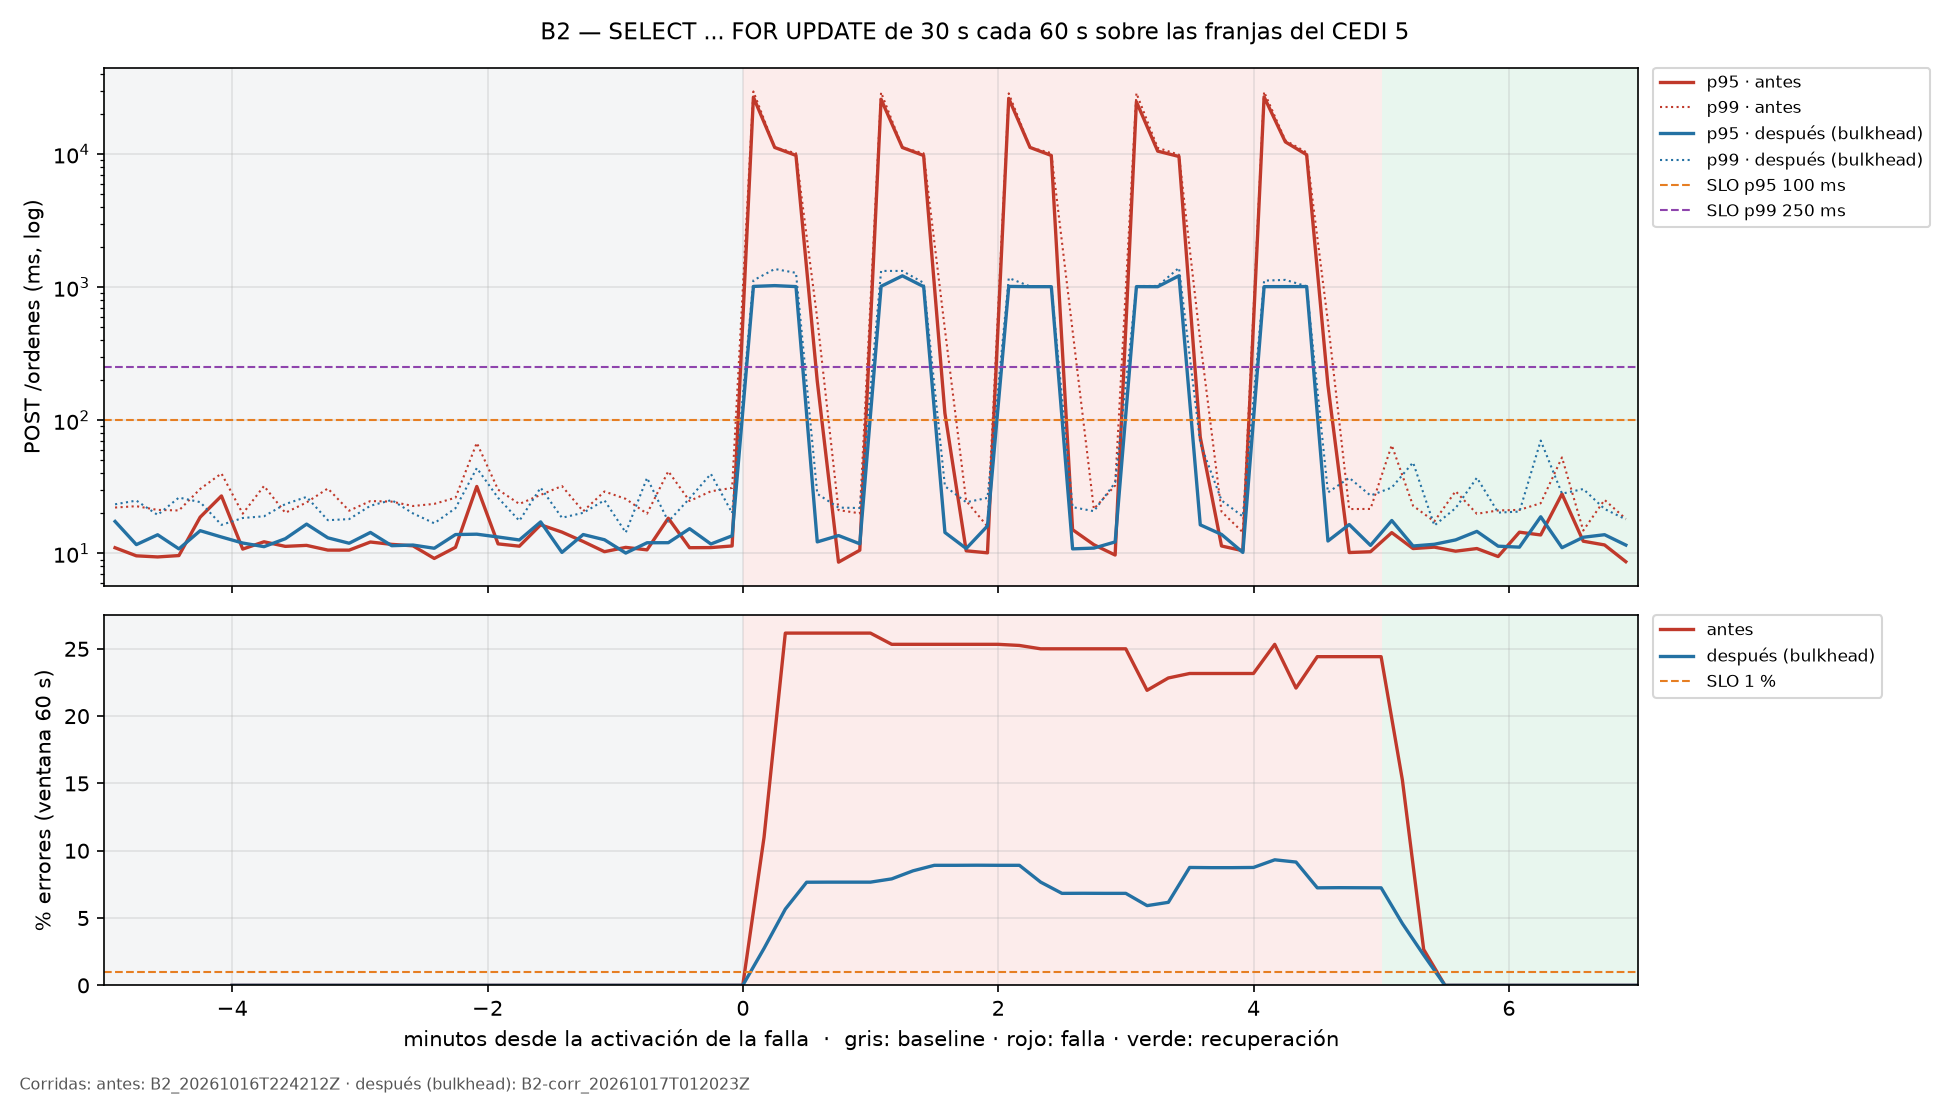
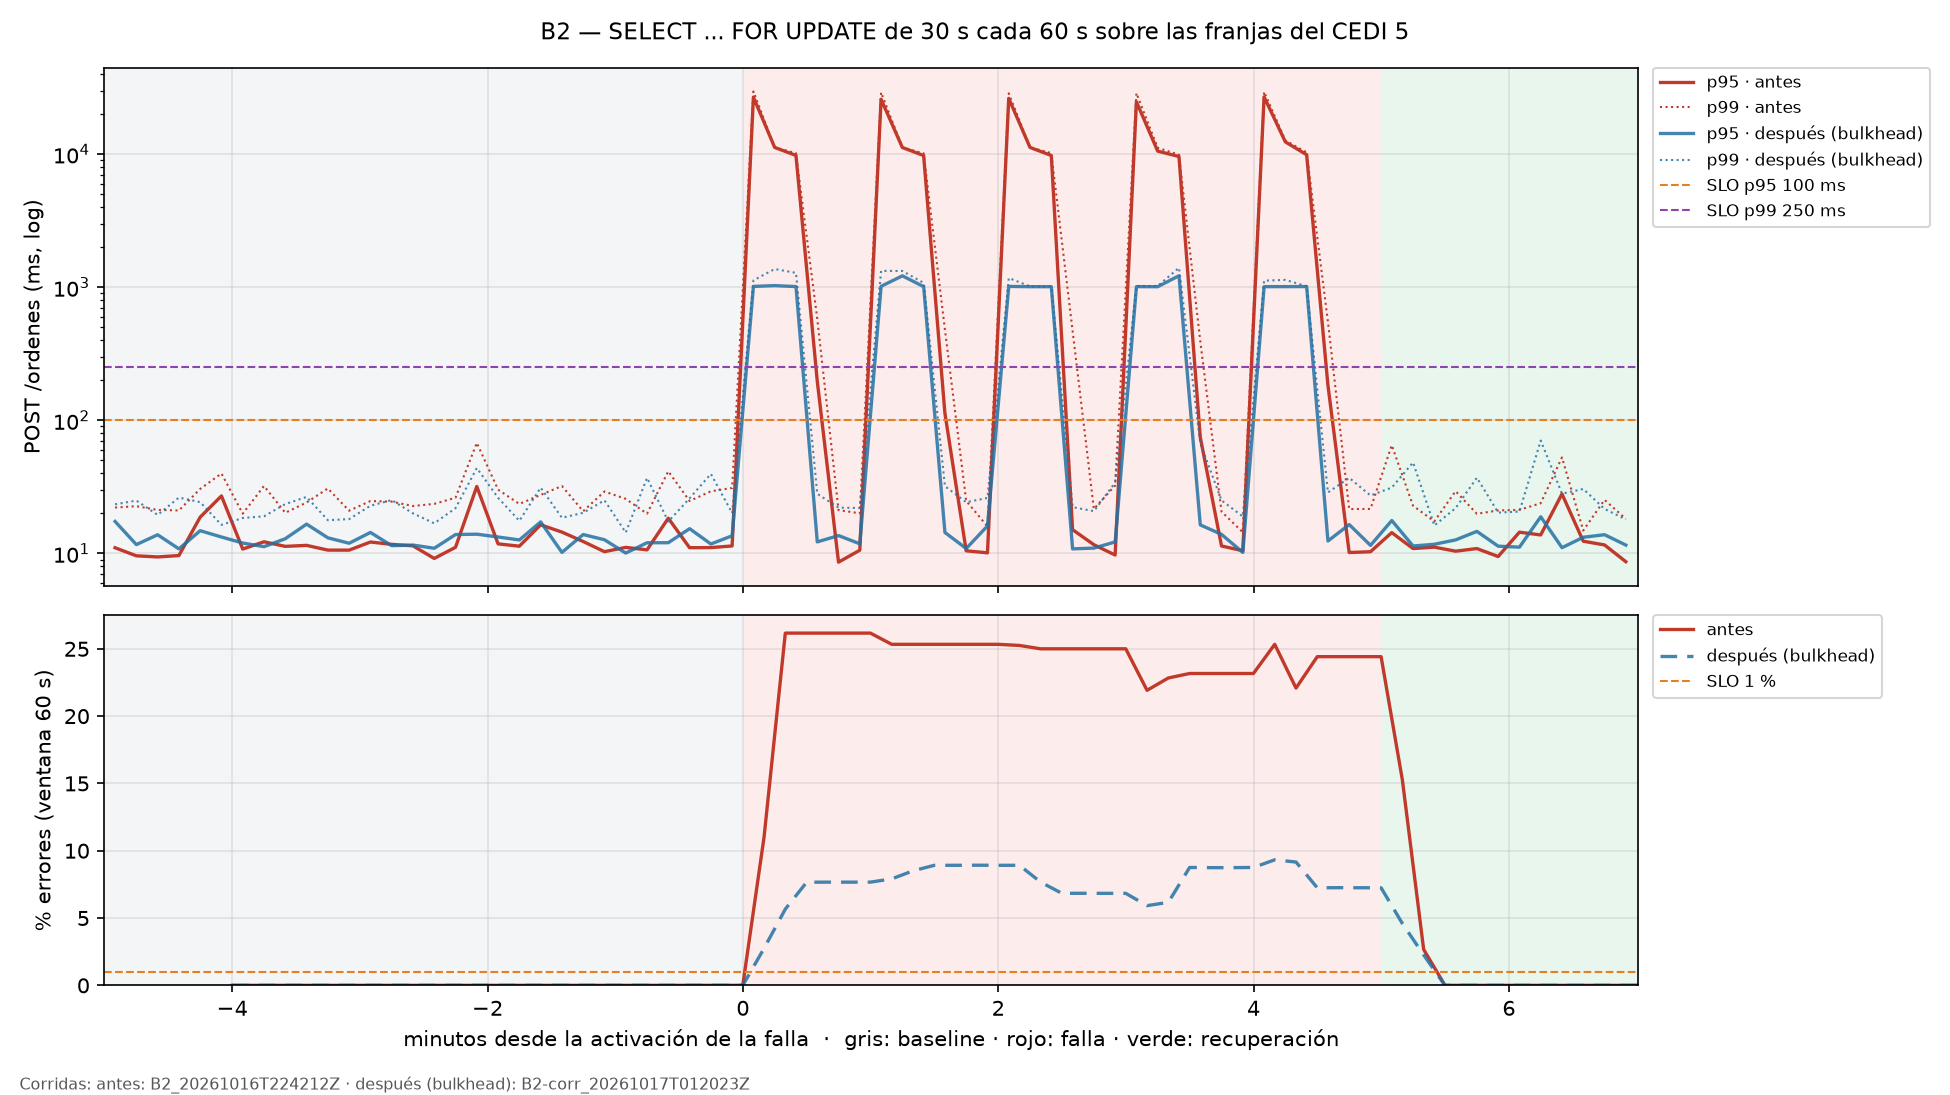
Entregable 3: figuras, panel de errores legible cuando la serie es 0
Si una serie no tiene errores en toda la corrida se dibuja más gruesa, el
eje y arranca un poco por debajo de 0 y el panel lo dice en texto. La
segunda serie va discontinua y algo transparente para que no tape a la
primera (errores, lag del outbox y latencia).

diff --git a/lab/experimentos/figuras.py b/lab/experimentos/figuras.py
@@ -46,6 +46,9 @@ CORRIDAS = {
 }
 CON_LAG = {"C2", "D2"}
 COLORES = ["#c0392b", "#2471a3"]
+# La segunda serie va discontinua y algo transparente: si coincide con la primera (p. ej. 0 % de errores
+# o el mismo lag en D2), ambas se siguen viendo.
+TRAZOS = [{"ls": "-", "alpha": 1.0}, {"ls": (0, (5, 3)), "alpha": 0.85}]
 BIN_S, VENTANA_S = 10, 60
 LEYENDA = {"fontsize": 8, "loc": "upper left", "bbox_to_anchor": (1.01, 1), "borderaxespad": 0}
 
@@ -121,14 +124,17 @@ def figura(exp_id, slo):
         sombrear(ax, ref)
         ax.grid(alpha=0.3)
     ax_lat, ax_err = axs[0], axs[1]
-    for i, (run, etiqueta, c) in enumerate(datos):
-        s, col = series(c), COLORES[i % len(COLORES)]
+    calculadas = [series(c) for _, _, c in datos]
+    # Serie de errores en 0 en toda la corrida: línea más gruesa (si no, queda pegada al eje).
+    en_cero = [bool(np.nanmax(s["err"], initial=0) == 0) for s in calculadas]
+    for i, ((run, etiqueta, c), s) in enumerate(zip(datos, calculadas)):
+        col, trazo = COLORES[i % len(COLORES)], TRAZOS[i % len(TRAZOS)]
         nombre = etiqueta if len(datos) > 1 else run
-        ax_lat.plot(s["x"], s["p95"], color=col, lw=1.6, label=f"p95 · {nombre}")
-        ax_lat.plot(s["x"], s["p99"], color=col, lw=1.0, ls=":", label=f"p99 · {nombre}")
-        ax_err.plot(s["x_err"], s["err"], color=col, lw=1.6, label=nombre)
+        ax_lat.plot(s["x"], s["p95"], color=col, lw=1.6, alpha=trazo["alpha"], label=f"p95 · {nombre}")
+        ax_lat.plot(s["x"], s["p99"], color=col, lw=1.0, ls=":", alpha=trazo["alpha"], label=f"p99 · {nombre}")
+        ax_err.plot(s["x_err"], s["err"], color=col, lw=3.0 if en_cero[i] else 1.6, **trazo, label=nombre)
         if exp_id in CON_LAG and len(s["lag"]):
-            axs[2].plot(s["lag"][:, 0], s["lag"][:, 1], color=col, lw=1.6, label=nombre)
+            axs[2].plot(s["lag"][:, 0], s["lag"][:, 1], color=col, lw=1.6, **trazo, label=nombre)
     ax_lat.axhline(slo["p95_post_ms"], color="#e67e22", ls="--", lw=1, label=f"SLO p95 {slo['p95_post_ms']} ms")
     ax_lat.axhline(slo["p99_post_ms"], color="#8e44ad", ls="--", lw=1, label=f"SLO p99 {slo['p99_post_ms']} ms")
     ax_lat.set_yscale("log")
@@ -136,7 +142,23 @@ def figura(exp_id, slo):
     ax_lat.legend(**LEYENDA)
     ax_err.axhline(slo["errores_pct"], color="#e67e22", ls="--", lw=1, label=f"SLO {slo['errores_pct']:g} %")
     ax_err.set_ylabel(f"% errores (ventana {VENTANA_S} s)")
-    ax_err.set_ylim(bottom=0)
+    if any(en_cero):
+        tope = max([slo["errores_pct"]] + [np.nanmax(s["err"]) for s in calculadas]) * 1.1
+        ax_err.set_ylim(-0.05 * tope, tope)   # la línea en 0 queda separada del eje
+        quienes = [e for (_, e, _), z in zip(datos, en_cero) if z]
+        if len(datos) == 1:
+            texto = "0 % de errores en toda la corrida"
+        elif all(en_cero):
+            texto = f"0 % de errores en toda la corrida ({' y '.join(e.split(' (')[0] for e in quienes)})"
+        else:
+            texto = "; ".join(f"{e.split(' (')[0]}: 0 % de errores en toda la corrida" for e in quienes)
+        # Todo en 0: centrado. Si alguna serie tiene errores, arriba a la izquierda (sobre el baseline,
+        # que no tiene errores) para no taparla.
+        x, y, ha, va = (0.5, 0.5, "center", "center") if all(en_cero) else (0.02, 0.94, "left", "top")
+        ax_err.text(x, y, texto, transform=ax_err.transAxes, ha=ha, va=va, fontsize=11,
+                    color="#333", bbox={"boxstyle": "round,pad=0.4", "fc": "white", "ec": "#bbb", "alpha": 0.9})
+    else:
+        ax_err.set_ylim(bottom=0)
     ax_err.legend(**LEYENDA)
     if exp_id in CON_LAG:
         axs[2].axhline(slo["lag_outbox_s"], color="#e67e22", ls="--", lw=1, label=f"SLO {slo['lag_outbox_s']} s")
